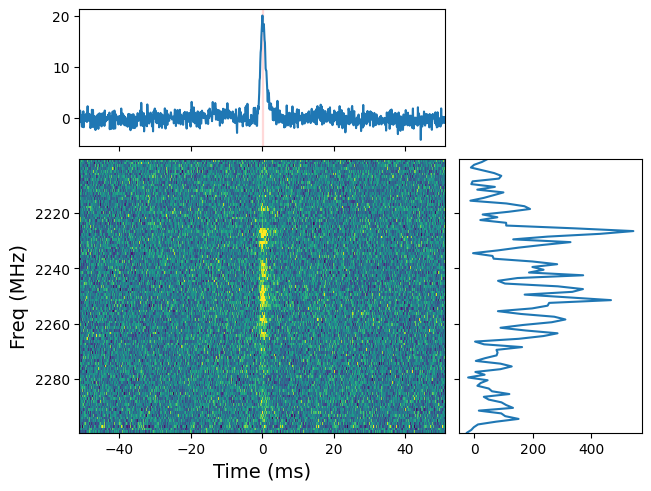
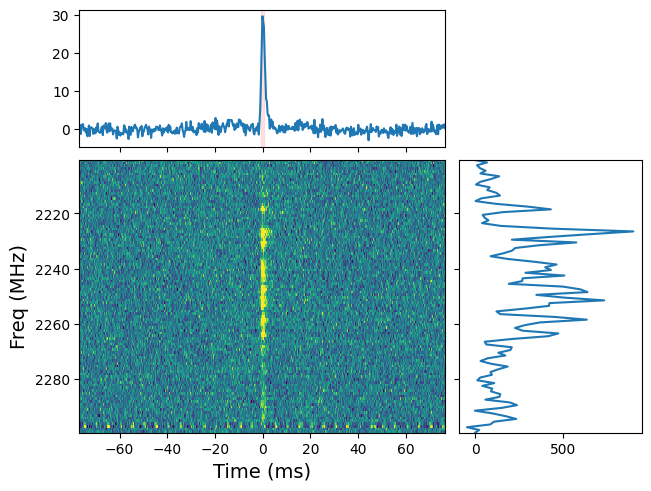
DM optimization

diff --git a/dm_opt/dm_opt.py b/dm_opt/dm_opt.py
@@ -1,0 +1,115 @@
+import sp_spec as sp
+import numpy as np
+import click
+import multiprocessing as mp
+import pandas as pd
+import os
+import re
+
+def read_offset(fil_file, offset_file):
+    """
+    Read in offset
+    """
+    df = pd.read_csv(offset_file)
+    offsets = df["Offset Times"]
+        # Get corresponding offset value by checking which pulse num
+    filename = os.path.basename(fil_file)
+
+    # Use regex to find the pattern. We are looking for p followed by 4 digits
+    match = re.search(r'p(\d{4})', filename)
+    index = -1
+    if match:
+        # Convert the digit part to an integer
+        index = int(match.group(1))
+    else:
+        print("Pattern not found in filename.")
+    offset = offsets[index]
+    return offset
+
+
+def calc_snr(fil_file, dm, pulse_bins, tp, tdur, bin_width = 1.024*10**(-5), sample_time = 10**(-6), n_bins=5):
+    """
+    Extra time series data from filterbank and calculate snr
+    pulse_bins: Width of pulse in bins
+    bin_width: Length of bin time in seconds
+    n_bins: new width of pulse in bins
+    """
+    # number of bins to avg over
+    tavg = ((pulse_bins * bin_width) / n_bins) / sample_time
+    tt, freqs, dat = sp.get_snippet_data(fil_file, dm, 
+                             favg=0, tavg=int(tavg), bpass=True,
+                             tp=tp, tdur=tdur)
+    
+    # get ts from dat
+    ts = np.mean(dat, axis=1)
+    Nthird = len(ts) // 3
+    avg = np.mean(ts[:Nthird])
+    sig = np.std(ts[:Nthird])
+    ts = (ts-avg)/sig
+
+    # get out of signal range
+    shift = 100
+
+    signal = np.max(ts)
+    noise = np.std(ts[:np.argmax(ts)-shift])
+
+    return signal/noise, dm
+
+def write_dms(out_dir, dm_dir, basename, dms):
+    """
+    Write results to out file
+    """
+    df = pd.DataFrame(dms, columns = ['SNR', 'DM'])
+    # reorder columns to put DM first
+
+    df = df[['DM', 'SNR']]
+    df.to_csv('%s%s%s.dm' % (out_dir, dm_dir, basename), index=False, sep='\t')
+
+
+
+
+
+@click.command()
+@click.option("--out_dir", type=str,
+              help="Path to out dir", required=True)
+@click.option("--dm_dir", type=str,
+              help="Path to dm dir", required=True)
+@click.option("--fil_file", type=str, 
+              help="Path to filterbank file", required=True)
+@click.option("--offsets", type=str,
+              help="Path to offsets file", required=True)
+@click.option("--dm_lo", type=float, 
+              help="Lower bound of dm to search for", required=True)
+@click.option("--dm_hi", type=float,
+              help="Upper bound of dm to search for", required=True)
+@click.option("--dm_step", type=float, 
+              help="Step value of dm", required=True)
+
+def dm_opt(out_dir, dm_dir, fil_file, offsets, dm_lo, dm_hi, dm_step):
+    """
+    Optimizes dm by finding maximum SNR
+    """
+    offset = read_offset(fil_file, out_dir+offsets)
+    print(offset)
+    inputs = [(fil_file, round(dm, 2), 150, round(offset, 2), 0.2) for dm in np.arange(dm_lo, dm_hi, dm_step)]
+
+
+    with mp.Pool() as pool:
+        results = pool.starmap(calc_snr, inputs)
+
+    max_snr, max_dm = max(results)
+    print("Maximum SNR: %f at DM: %f" %(max_snr, max_dm))
+    
+    base_name = os.path.basename(fil_file)
+    # Get the file name without the extension.
+    base_name= os.path.splitext(base_name)[0]
+
+    # write in sorted out
+    write_dms(out_dir, dm_dir, base_name, sorted(results, reverse=True))
+
+
+
+debug = 0
+if __name__ == "__main__":
+    if not debug:
+        dm_opt()

diff --git a/frb_process.py b/frb_process.py
@@ -62,6 +62,21 @@ def plot_fil():
     print(cmd)
     subprocess.run(cmd, shell=True)
 
+def dm_opt():
+    """
+    Optimizes dm
+    """
+    print("---------------------------------------------")
+    print("Finding optimal dm value")
+    print("---------------------------------------------")
+    params = {"out_dir": par.outdir, "dm_dir": par.dm_dir, "fil_file": par.fil_file, "offset": par.offset_file,
+        "dm_lo": par.dm_lo, "dm_hi": par.dm_hi, "dm_step": par.dm_step}
+    
+    cmd = "python3 dm_opt/dm_opt.py --out_dir %(out_dir)s --dm_dir %(dm_dir)s --fil_file %(fil_file)s --offsets %(offset)s --dm_lo %(dm_lo)f \
+            --dm_hi %(dm_hi)f --dm_step %(dm_step)f" % params
+    print(cmd)
+    subprocess.run(cmd, shell=True)
+
 
 
 debug = 0
@@ -81,6 +96,15 @@ if __name__ == "__main__":
             st = time.time()
             plot_fil()
             times.append(["fil->plot", round(time.time()-st, 2)])
+        if par.dm_opt:
+            st = time.time()
+            dm_opt()
+            times.append(["dm optimize", round(time.time()-st, 2)])
+
         total = sum(item[1] for item in times)
         times.append(["total", total])
         print(tabulate(times, headers =['Step','Time (s)'],tablefmt = 'fancy_grid'))
+
+
+
+

diff --git a/cs2fil/cs2fil.py b/cs2fil/cs2fil.py
@@ -7,6 +7,7 @@ import astropy.units as u
 from astropy.time import Time
 import sigproc as fb
 import click
+import multiprocessing as mp
 
 #########################
 ##  DADA HEADER CLASS  ##
@@ -753,11 +754,11 @@ def cs2fil_multi(basename, cs_dir, dada_dir, fil_dir, dm, nchan,
         return 0
     else: pass
 
-    for cbase in chunk_bases:
-        print("Processing %s..." %cbase)
-        cs2fil_multipass(cbase, cs_dir, dada_dir, fil_dir, dm, nchan, 
-                         mem_lim_gb=mem_lim, nthread=nthread, 
-                         inc_ddm=inc_ddm)
+    with mp.Pool() as pool:
+        # Create a list of arguments for each call to cs2fil_multipass
+        args_list = [(cbase, cs_dir, dada_dir, fil_dir, dm, nchan, mem_lim, nthread, inc_ddm) for cbase in chunk_bases]
+        # Use the pool to map the cs2fil_multipass function to the args_list
+        pool.starmap(cs2fil_multipass, args_list)
     
     return
 

diff --git a/plotfil/plotfil.py b/plotfil/plotfil.py
@@ -38,8 +38,8 @@ def generate_plots(offsets, file, png_dir, dm, tavg, tdur):
 
     basename = os.path.splitext(filename)[0]
     # plot using sp_spec
-    sp.make_plot('%s' % file, dm, tavg=int(tavg), tp=round(offset, 2), 
-                    tdur=round(tdur, 2), outbins=1024, outfile="%s%s.png" % (png_dir, basename))
+    sp.make_plot('%s' % file, dm, tavg=int(307), tp=None, 
+                    tdur=None, outbins=500, outfile="%s%s.png" % (png_dir, basename))
 
 
 @click.command()

diff --git a/frb_process_config.py b/frb_process_config.py
@@ -34,10 +34,23 @@ png_dir = "png/"
 tavg = 100
 tdur = 0.2
 
+
+
 # Conversions to run
-vrad_to_cs = True
-cs_to_fil = True
-plot_fil = True
+vrad_to_cs = False
+cs_to_fil = False
+plot_fil = False
+
+
+#Optimizations to run
+dm_opt = True
+
+#DM Optimizition
+dm_lo = 219.40
+dm_hi = 219.50
+dm_step = 0.01
+dm_dir = "dm/"
+fil_file = "/src/out/fil/slcp_p0000-0001_n100.fil"
 
 
 
